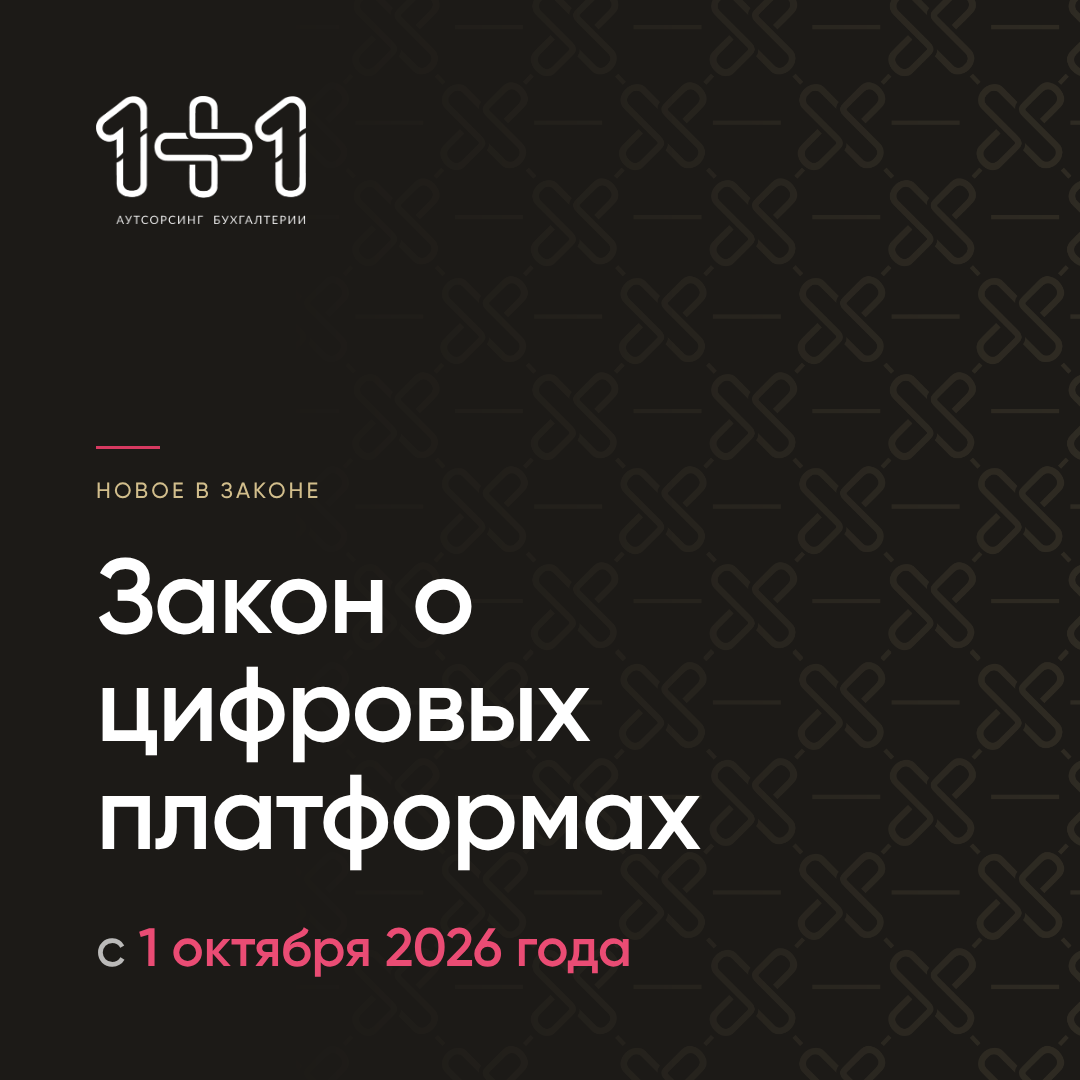
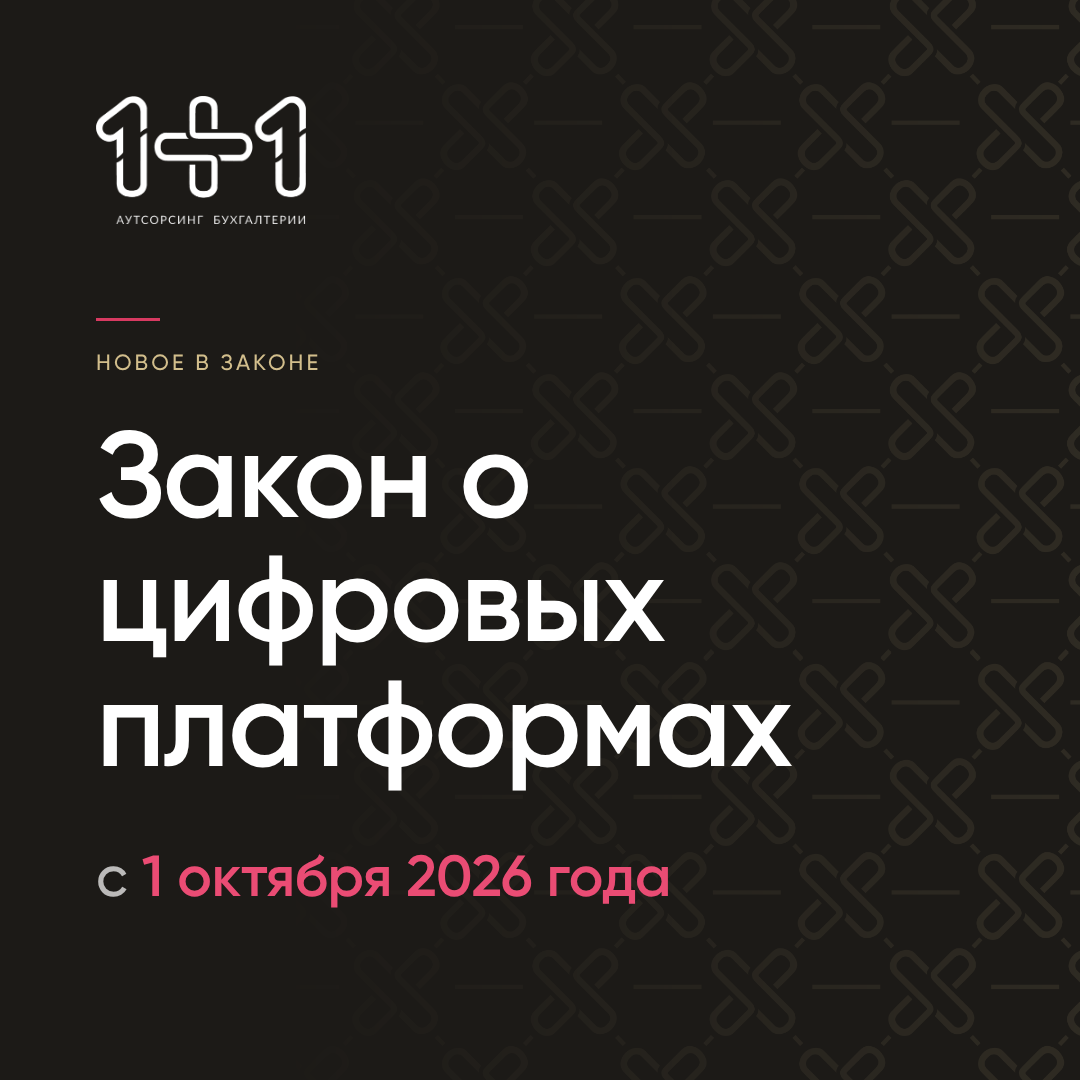
Rebalance law layouts vertically and add vertical balance rule
Claude-Session: https://claude.ai/code/session_01VZ7Hrkur6jxoGp5f6QSiLJ

diff --git a/specimens/law.html b/specimens/law.html
@@ -7,11 +7,11 @@
   -webkit-mask-image:linear-gradient(to left,#000 0,rgba(0,0,0,.55) 45%,transparent 92%);
           mask-image:linear-gradient(to left,#000 0,rgba(0,0,0,.55) 45%,transparent 92%)}
 .logo{width:210px}
-.text{position:absolute;left:96px;top:auto;bottom:96px;color:#fff}
+.text{position:absolute;left:96px;top:318px;color:#fff}
 .rule{width:64px;height:3px;background:var(--crimson);margin-bottom:30px}
 .label{font-weight:500;font-size:22px;letter-spacing:.14em;color:var(--champagne);text-transform:uppercase;margin-bottom:44px}
-h1{font-weight:600;font-size:106px;line-height:1.02;letter-spacing:-.018em}
-.date{margin-top:44px;font-weight:500;font-size:54px;letter-spacing:-.005em;color:rgba(255,255,255,.7)}
+h1{font-weight:600;font-size:122px;line-height:1.02;letter-spacing:-.018em}
+.date{margin-top:50px;font-weight:500;font-size:58px;letter-spacing:-.005em;color:rgba(255,255,255,.7)}
 .date b{font-weight:600;color:#EA4C74}
 </style></head><body>
 <div class="canvas">

diff --git a/specimens/law-olive.html b/specimens/law-olive.html
@@ -8,7 +8,7 @@
   -webkit-mask-image:linear-gradient(to left,#000 0,rgba(0,0,0,.5) 45%,transparent 90%);
           mask-image:linear-gradient(to left,#000 0,rgba(0,0,0,.5) 45%,transparent 90%)}
 .logo{width:210px}
-.text{position:absolute;left:96px;right:60px;bottom:96px;color:#fff}
+.text{position:absolute;left:96px;right:60px;bottom:132px;color:#fff}
 .label{font-weight:500;font-size:24px;letter-spacing:.14em;color:rgba(255,255,255,.86);text-transform:uppercase;margin-bottom:38px;display:flex;align-items:center;gap:22px}
 .label i{display:block;width:64px;height:3px;background:var(--crimson)}
 h1{font-weight:700;font-size:146px;line-height:.96;letter-spacing:-.035em;margin-left:-6px}

diff --git a/docs/brandbook-v2.md b/docs/brandbook-v2.md
@@ -31,6 +31,9 @@
    или фото. Если героев два, один лишний.
 2. **Воздух.** Пустого места не меньше 40% холста (в макете без фото не меньше
    50%). Оно собрано в одну-две зоны, а не рассыпано по краям клочками.
+   **Баланс по вертикали:** у текстового блока без фото центр стоит на 52–58% высоты,
+   зазор под блоком не меньше зазора между логотипом и блоком. Блок, прижатый к низу при
+   пустом верхе, нарушает баланс: тяжесть уходит вниз.
 3. **Голос одного цвета.** Акцент один: по умолчанию малиновый, и он стоит на
    одном слове, одной цифре или одной черте. Два акцента на макет не нужны.
 4. **Убери.** Уберите любой элемент. Если макет не пострадал, элемент лишний.
